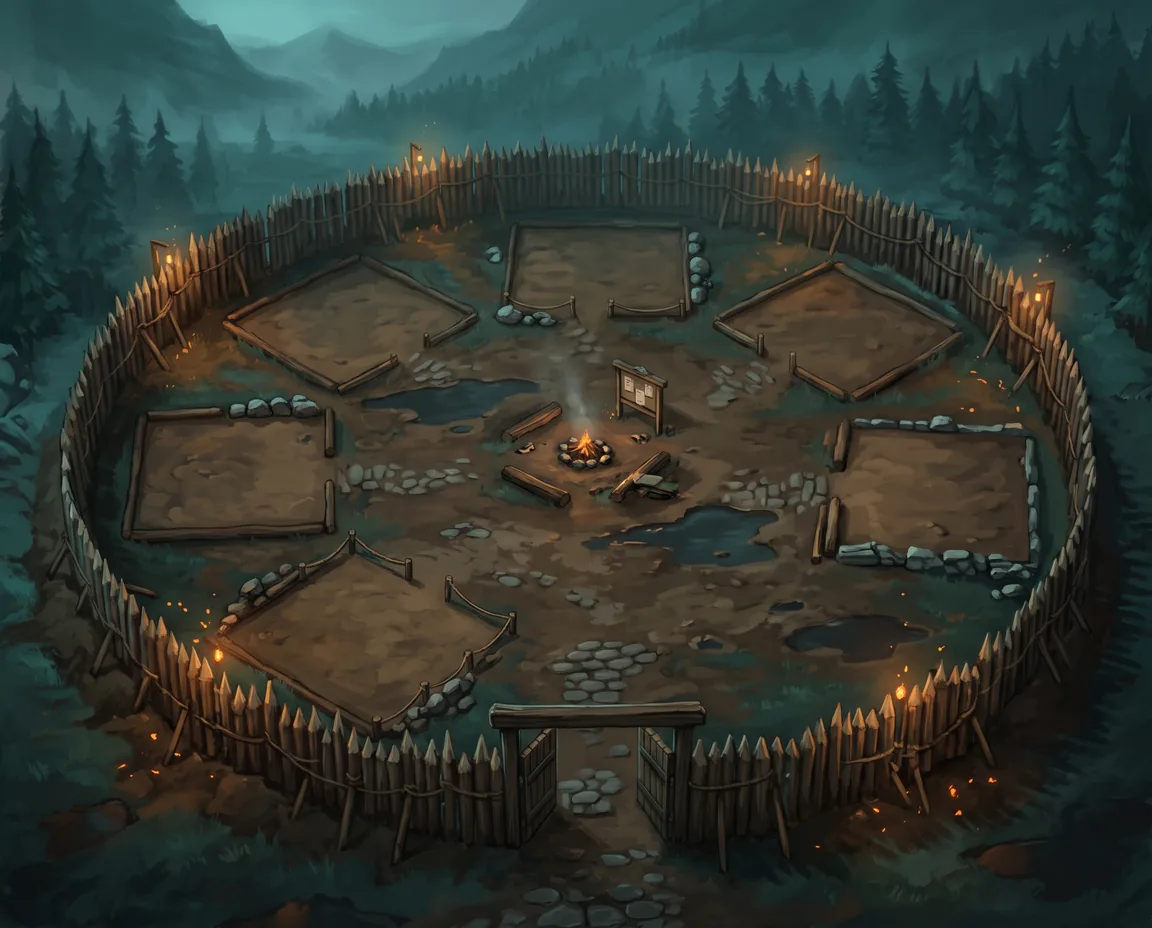
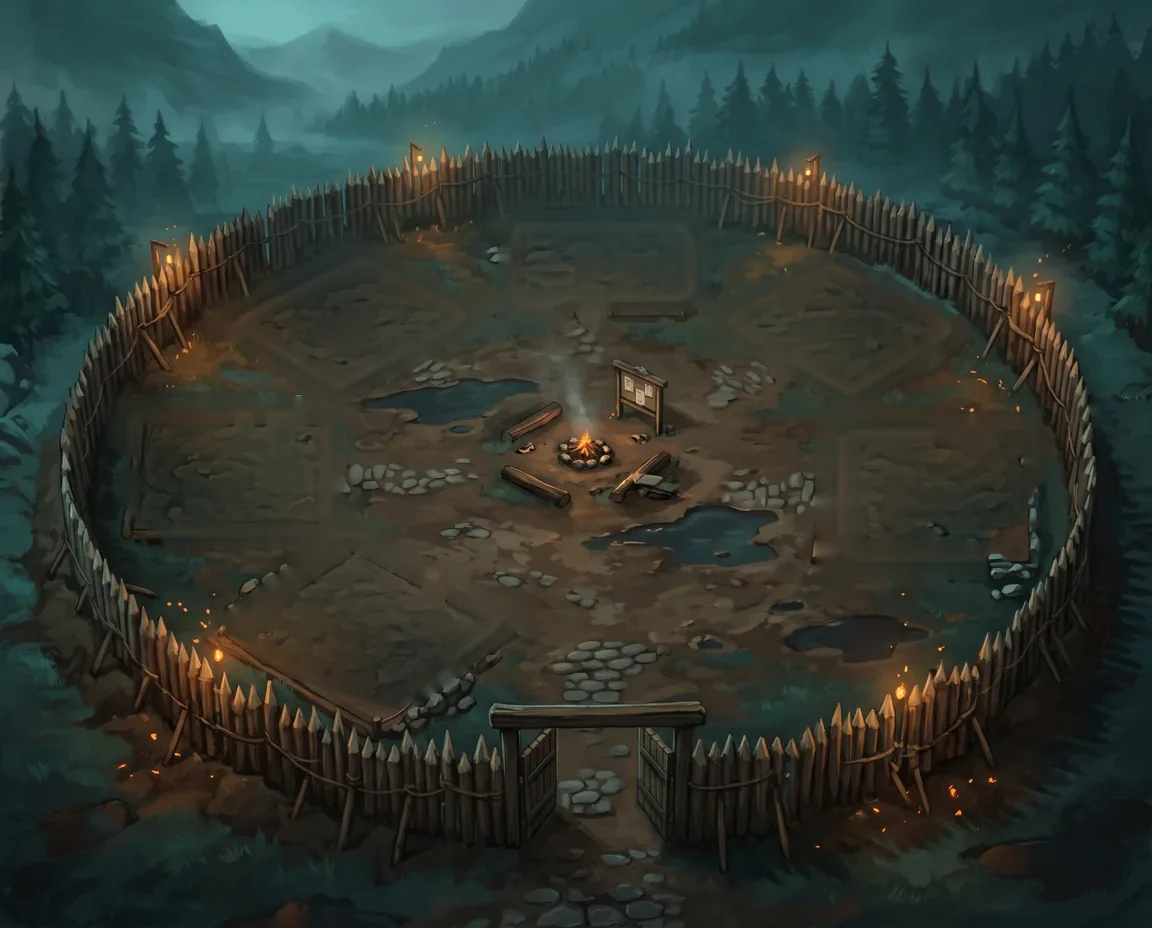
Sat aliniat, Topitorie/Depozit fără derulare, profil cu rucsac pe slot
Claude-Session: https://claude.ai/code/session_016RnVnM3nvrFB2teg2FRV2u

diff --git a/profil.js b/profil.js
@@ -7,11 +7,11 @@
    Se deschide cu prOpen(i), unde i e poziția în roster() (echipă, apoi rezervă, apoi străjeri).
    Se încarcă după echipa.js.
    ========================================================================== */
-const PR = { i: -1, bagFilter: 'all', bagQuery: '' };
+const PR = { i: -1, bagFilter: 'all', bagQuery: '', bagOpen: false };
 const prF = () => roster()[PR.i];
 const prPct = v => (v > 0 ? '+' : '−') + Math.abs(v) + '%';
 
-function prOpen(i) { if (!roster()[i]) return; PR.i = i; PR.bagFilter = 'all'; PR.bagQuery = ''; prDraw(); }
+function prOpen(i) { if (!roster()[i]) return; PR.i = i; PR.bagFilter = 'all'; PR.bagQuery = ''; PR.bagOpen = false; prDraw(); }
 function prClose() { PR.i = -1; document.getElementById('pr-m')?.remove(); document.removeEventListener('keydown', prKey); }
 function prKey(e) { if (e.key === 'Escape') prClose(); }
 /* acțiunile din profil lucrează pe luptătorul din profil, apoi redesenează fereastra */
@@ -83,24 +83,30 @@ function prStats(f) {
 }
 function prSlot(f, k) {
   const it = E(f)[k];
-  if (!it) return `<div class="pr-sl em" title="${SLN[k]}: gol">${UI(UISL[k])}<small>${SLN[k]}</small></div>`;
-  return `<div class="pr-sl q${it.lg ? 'l' : it.r}"${typeof itTipA === 'function' ? itTipA(it) : ` title="${tEsc(it.name)}"`}>${iic(it)}<button class="pr-un" onclick="prUn('${k}')" title="Scoate ${tEsc(it.name)}" aria-label="Scoate ${tEsc(it.name)}">✕</button></div>`;
+  const on = PR.bagOpen && PR.bagFilter === k ? ' on' : '', pick = `onclick="prPick('${k}')" role="button" tabindex="0" onkeydown="if(event.key==='Enter'||event.key===' '){event.preventDefault();prPick('${k}')}"`;
+  if (!it) return `<div class="pr-sl em${on}" ${pick} title="${SLN[k]}: gol · apasă ca să alegi" aria-label="${SLN[k]}: gol, alege un obiect">${UI(UISL[k])}<small>${SLN[k]}</small></div>`;
+  return `<div class="pr-sl q${it.lg ? 'l' : it.r}${on}" ${pick}${typeof itTipA === 'function' ? itTipA(it) : ` title="${tEsc(it.name)}"`}>${iic(it)}<button class="pr-un" onclick="event.stopPropagation();prUn('${k}')" title="Scoate ${tEsc(it.name)}" aria-label="Scoate ${tEsc(it.name)}">✕</button></div>`;
 }
 /* Filtre exclusiv de prezentare: indexul real din inventar rămâne neschimbat la equip(i). */
 const prBagMatches = it => {
   const k = PR.bagFilter;
   const category = k === 'all' || (k === 'w' && it.t === 'w') ||
     (k === 'armor' && ['a','h','b'].includes(it.t)) ||
-    (k === 'accessory' && ['j','r'].includes(it.t));
+    (k === 'accessory' && ['j','r'].includes(it.t)) ||
+    (['a','h','b','j','r'].includes(k) && it.t === k);
   const query = (PR.bagQuery || '').trim().toLocaleLowerCase('ro-RO');
   return category && (!query || String(it.name || '').toLocaleLowerCase('ro-RO').includes(query));
 };
 const prEscapeAttr = s => String(s).replace(/&/g,'&amp;').replace(/"/g,'&quot;').replace(/</g,'&lt;').replace(/>/g,'&gt;');
 function prBagCells(f) {
   const inv = S.inv || [];
-  const visible = inv.map((it,i) => ({it,i})).filter(({it}) => prBagMatches(it));
-  const cells = visible.map(({it,i}) => {
-    const cur = E(f)[it.t], ok = typeof wfOk !== 'function' || wfOk(f, it), up = ok && typeof bsc === 'function' && (!cur || bsc(it, f) > bsc(cur, f) * 1.02);
+  const visible = inv.map((it,i) => ({it,i})).filter(({it}) => prBagMatches(it)).map(o => {
+    const cur = E(f)[o.it.t], ok = typeof wfOk !== 'function' || wfOk(f, o.it), sc = typeof bsc === 'function' ? bsc(o.it, f) : 0;
+    return Object.assign(o, { cur, ok, sc, up: ok && typeof bsc === 'function' && (!cur || sc > bsc(cur, f) * 1.02) });
+  });
+  /* ordinea afișată: întâi îmbunătățirile, apoi ce se potrivește, cele mai bune primele (indexul real rămâne neschimbat) */
+  visible.sort((x, y) => (y.up - x.up) || (y.ok - x.ok) || (y.sc - x.sc));
+  const cells = visible.map(({it,i,cur,ok,up}) => {
     return `<button class="pr-it q${it.lg ? 'l' : it.r}${up ? ' up' : ''}${ok ? '' : ' no'}" onclick="prEq(${i})"${typeof itTipA === 'function' ? itTipA(it, cur) : ` title="${tEsc(it.name)}"`} aria-label="Echipează ${tEsc(it.name)}">${iic(it)}${up ? '<b class="pr-up">▲</b>' : ''}</button>`;
   }).join('');
   return {count:visible.length,html:cells || '<p class="pr-empty pr-bag-none">Niciun obiect găsit. Încearcă alt filtru.</p>'};
@@ -110,8 +116,9 @@ function prBag(f) {
   if (!inv.length) return '<div class="mute pr-empty">Rucsacul e gol.</div>';
   return `<div class="pr-grid" id="pr-bag-items" role="region" aria-label="Obiectele din rucsac">${prBagCells(f).html}</div>`;
 }
+const PR_SLOTS = [['all','Toate'],['w','Arme'],['a','Armuri'],['h','Coifuri'],['b','Cizme'],['j','Bijuterii'],['r','Relicve']];
 function prBagTools() {
-  const options = [['all','Toate'],['w','Arme'],['armor','Armuri'],['accessory','Accesorii']];
+  const options = PR_SLOTS;
   const buttons = options.map(([k,t]) => `<button type="button" data-pr-filter="${k}" class="${PR.bagFilter === k ? 'on' : ''}" aria-pressed="${PR.bagFilter === k}" onclick="prBagFilter('${k}')">${t}</button>`).join('');
   return `<div class="pr-bag-tools" aria-label="Filtre rucsac"><div class="pr-bag-tabs" role="group" aria-label="Tip obiect">${buttons}</div><input class="pr-bag-search" type="search" placeholder="Caută obiect…" aria-label="Caută în rucsac" value="${prEscapeAttr(PR.bagQuery)}" oninput="prBagSearch(this.value)"></div>`;
 }
@@ -129,7 +136,12 @@ function prBagRefresh() {
     btn.setAttribute('aria-pressed', String(on));
   });
 }
-function prBagFilter(value) { if (['all','w','armor','accessory'].includes(value)) { PR.bagFilter = value; prBagRefresh(); } }
+function prBagFilter(value) { if (['all','w','armor','accessory','a','h','b','j','r'].includes(value)) { PR.bagFilter = value; prBagRefresh(); document.querySelectorAll('#pr-m .pr-sl').forEach(el => el.classList.toggle('on', el.getAttribute('onclick') === `prPick('${value}')`)); const t = document.getElementById('pr-bag-t'); if (t) t.textContent = prBagTitle(); } }
+/* rucsacul e ascuns până alegi un slot (sau îl deschizi): fișa rămâne curată */
+const prBagTitle = () => { const o = PR_SLOTS.find(x => x[0] === PR.bagFilter); return o && PR.bagFilter !== 'all' ? o[1] : 'Tot rucsacul'; };
+function prPick(k) { if (PR.bagOpen && PR.bagFilter === k) { PR.bagOpen = false; } else { PR.bagOpen = true; PR.bagFilter = k; PR.bagQuery = ''; } prDraw(); }
+function prBagToggle(open) { PR.bagOpen = open; if (open && !PR.bagFilter) PR.bagFilter = 'all'; prDraw(); }
+function prUpCount(f) { return (S.inv || []).filter(it => { const cur = E(f)[it.t]; return (typeof wfOk !== 'function' || wfOk(f, it)) && typeof bsc === 'function' && (!cur || bsc(it, f) > bsc(cur, f) * 1.02); }).length; }
 function prBagSearch(value) { PR.bagQuery = String(value || ''); prBagRefresh(); }
 function prDraw() {
   const f = prF(); if (!f) return prClose();
@@ -153,15 +165,15 @@ function prDraw() {
   ${train}
   <div class="pr-ab"><b>${tEsc(cls.sp)}</b> <span>${tEsc(cls.d)}</span>${spec ? `<div><b>${tEsc(spec.n)}</b> <span>${tEsc(spec.r || '')}</span></div>` : ''}</div>
 </section>
-<section class="pr-r">
+<section class="pr-r${PR.bagOpen ? '' : ' closed'}">
   <div class="pr-doll">
     <div class="pr-col">${L.map(k => prSlot(f, k)).join('')}</div>
     <div class="pr-por">${src ? `<img src="${src}" alt="${tEsc(f.n)}" onerror="this.replaceWith(Object.assign(document.createElement('span'),{className:'pr-av'}))">` : `<span class="pr-av">${av(f, 180)}</span>`}${dead ? '<b class="pr-dead">☠ căzut</b>' : ''}</div>
     <div class="pr-col">${R.map(k => prSlot(f, k)).join('')}</div>
   </div>
-  <div class="pr-bh"><b>Rucsac</b><span class="pr-bag-count" id="pr-bag-count" aria-live="polite">${prBagCells(f).count} / ${(S.inv || []).length}</span><span class="mute">Atinge pentru echipare · ▲ îmbunătățire</span></div>
+  ${PR.bagOpen ? `<div class="pr-bh"><b>Rucsac</b><span class="pr-bag-sub" id="pr-bag-t">${prBagTitle()}</span><span class="pr-bag-count" id="pr-bag-count" aria-live="polite">${prBagCells(f).count} / ${(S.inv || []).length}</span><span class="mute">Atinge pentru echipare · ▲ îmbunătățire</span><button class="pr-bag-hide" onclick="prBagToggle(false)">Ascunde</button></div>
   ${prBagTools()}
-  ${prBag(f)}
+  ${prBag(f)}` : (u => `<div class="pr-bag-closed"><span class="mute">Apasă pe un slot ca să vezi doar ce se potrivește acolo, cele mai bune primele.</span><button onclick="prBagToggle(true)">🎒 Rucsac · ${(S.inv || []).length} obiecte${u ? ` · <b class="pr-upc">▲ ${u}</b>` : ''}</button></div>`)(prUpCount(f))}
 </section></div>`;
 }
 
@@ -287,6 +299,25 @@ const prBtn = i => `<button class="pr-open" onclick="prOpen(${i})">👤 Profil</
  .pr-bag-search{max-width:none;flex-basis:100%}
  .pr-beta .pr-grid{overflow:visible;max-height:none;grid-template-columns:repeat(auto-fill,minmax(48px,1fr))}
 }
+.pr-beta .pr-grid{grid-template-columns:repeat(auto-fill,58px);grid-auto-rows:58px;justify-content:start}
+.pr-beta .pr-it{width:58px;height:58px;aspect-ratio:auto}
+.pr-beta .pr-it .ico,.pr-beta .pr-it .uii{width:40px;height:40px}
+.pr-beta .pr-sl{cursor:pointer;transition:transform .12s,box-shadow .12s}
+.pr-beta .pr-sl:hover{transform:translateY(-1px);box-shadow:0 0 0 1px #d9bb74,0 0 14px #cda9514d}
+.pr-beta .pr-sl.on{box-shadow:0 0 0 2px #f0d27a,0 0 18px #f0d27a88}
+.pr-beta .pr-r.closed{grid-template-rows:minmax(0,1fr) auto}
+.pr-beta .pr-r.closed .pr-doll{height:100%}
+.pr-beta .pr-r.closed .pr-por{max-width:440px;max-height:min(440px,62dvh)}
+.pr-beta .pr-r.closed .pr-sl{width:70px;height:70px}
+.pr-beta .pr-r.closed .pr-sl .ico,.pr-beta .pr-r.closed .pr-sl .uii{width:50px;height:50px}
+.pr-beta .pr-r.closed .pr-doll{grid-template-columns:minmax(76px,1fr) minmax(240px,440px) minmax(76px,1fr)}
+.pr-bag-closed{display:flex;align-items:center;justify-content:space-between;gap:12px;margin-top:12px;padding:10px 12px;border:1px solid #68573577;border-radius:10px;background:#0b1417}
+.pr-bag-closed .mute{font-size:13px}
+.pr-bag-closed button{flex:none;min-height:0;padding:8px 14px;font:700 14px Cinzel,Georgia,serif}
+.pr-upc{color:#7fd88c}
+.pr-bag-sub{font:700 13px Cinzel,serif;color:#e8d6a6}
+.pr-bag-hide{margin-left:6px;min-height:0;padding:4px 10px;font-size:12px}
+@media(max-width:760px){.pr-bag-closed{flex-direction:column;align-items:stretch}.pr-beta .pr-grid{grid-template-columns:repeat(auto-fill,52px);grid-auto-rows:52px}.pr-beta .pr-it{width:52px;height:52px}.pr-beta .pr-r.closed .pr-sl{width:54px;height:54px}.pr-beta .pr-r.closed .pr-doll{grid-template-columns:58px minmax(0,1fr) 58px}}
 @keyframes prIn{from{opacity:0;transform:translateY(8px) scale(.98)}to{opacity:1;transform:none}}
 @media (prefers-reduced-motion:reduce){.pr-c{animation:none}}
 @media (max-width:760px){

diff --git a/sat-cladiri.js b/sat-cladiri.js
@@ -13,16 +13,20 @@
 const SAT2 = {
   ready: true,                      /* imaginile din imagini/sat2/ sunt publicate */
   base: 'imagini/sat2/',
-  /* parcelele: centrul bazei clădirii (x, y) și lățimea desenului, în pixeli 1152×928 */
-  /* parcelele din fundal: x = mijlocul, y = vârful din față al parcelei (baza desenului), w = lățimea desenului (px, 1152×928) */
+  fondV: 2,                         /* fundalurile fără parcele pictate */
+  /* parcelele: centrul locului de construcție (cx, cy) și lățimea desenului (w), în pixeli 1152×928.
+     Fundalurile nu mai au parcele pictate; fiecare clădire își aduce propriul teren izometric, așa că unghiul e mereu corect.
+     Pozițiile țin clădirile în interiorul zidului (antrenamentul nu mai calcă peste palisadă). */
   plots: {
-    a: { file: 'topitorie',   x: 352, y: 394, w: 272 },   /* sus-stânga */
-    d: { file: 'depozit',     x: 597, y: 324, w: 232 },   /* sus-centru */
-    p: { file: 'piata',       x: 840, y: 400, w: 272 },   /* sus-dreapta */
-    i: { file: 'infirmerie',  x: 228, y: 548, w: 252 },   /* mijloc-stânga */
-    h: { file: 'han',         x: 930, y: 566, w: 262 },   /* mijloc-dreapta */
-    t: { file: 'antrenament', x: 368, y: 730, w: 292 }    /* jos-stânga */
+    a: { file: 'topitorie',   cx: 350, cy: 322, w: 260 },   /* sus-stânga */
+    d: { file: 'depozit',     cx: 600, cy: 262, w: 230 },   /* sus-centru */
+    p: { file: 'piata',       cx: 838, cy: 328, w: 262 },   /* sus-dreapta */
+    i: { file: 'infirmerie',  cx: 248, cy: 470, w: 230 },   /* mijloc-stânga */
+    h: { file: 'han',         cx: 912, cy: 488, w: 224 },   /* mijloc-dreapta */
+    t: { file: 'antrenament', cx: 395, cy: 610, w: 250 }    /* jos-stânga */
   },
+  /* terenul izometric din desen: de la centrul lui până la vârful din față ≈ 0,30·w */
+  tileK: 0.30,
   /* câte aspecte există deja ca imagine pentru fiecare clădire (lipsă → cel mai mare disponibil; 0 → parcelă goală) */
   have: { topitorie: 5, depozit: 5, piata: 1, infirmerie: 5, han: 5, antrenament: 1 },
   /* clădirile fără niveluri: un singur aspect */
@@ -35,6 +39,7 @@ const SAT2 = {
   board: { x: 638, y: 438 },
   W: 1152, H: 928
 };
+const satBaseY = c => c.y != null ? c.y : c.cy + SAT2.tileK * c.w;
 const satArtTier = (k) => {
   if (SAT2.fixed[k]) return SAT2.fixed[k];
   const lv = typeof satLvl === 'function' ? satLvl(k) : 0;
@@ -43,7 +48,9 @@ const satArtTier = (k) => {
 };
 const satArtSrc = (k, tier) => { const c = SAT2.plots[k]; if (!c || tier < 1) return null; const t = Math.min(tier, SAT2.have[c.file] || 0); return t > 0 ? SAT2.base + c.file + '-' + t + '.webp' : null; };
 /* zona clicabilă: un dreptunghi în jurul desenului (lățime w, înălțime ~0,85·w deasupra bazei) */
-function satArtZone(c) { const w = c.w, h = Math.round(w * 0.86), x0 = c.x - w / 2, y0 = c.y - h; return [[x0, y0, x0 + w, y0, x0 + w, c.y, x0, c.y], [c.x, Math.max(14, y0 + 10)]]; }
+function satArtZone(c) { const x = c.cx != null ? c.cx : c.x, by = satBaseY(c), w = c.w, h = Math.round(w * 0.86), x0 = x - w / 2, y0 = by - h; return [[x0, y0, x0 + w, y0, x0 + w, by, x0, by], [x, Math.max(14, y0 + 10)]]; }
+/* loc gol (clădire neconstruită): un romb punctat pe teren */
+function satPlotSvg(c) { const hw = c.w / 2 * 0.92, hh = c.w * SAT2.tileK * 0.92; return `<polygon class="vh-plot" points="${c.cx - hw},${c.cy} ${c.cx},${c.cy - hh} ${c.cx + hw},${c.cy} ${c.cx},${c.cy + hh}"/>`; }
 
 /* ultimul aspect văzut pentru fiecare clădire → animația „a crescut” doar o dată */
 function satArtSeen(k, tier) {
@@ -58,14 +65,14 @@ function satFlagSvg(c) {
   return `<svg class="vh-flag" viewBox="0 0 40 90" style="left:${x.toFixed(2)}%;top:${y.toFixed(2)}%" aria-hidden="true"><path d="M6 88V4" stroke="#3a2614" stroke-width="3"/><circle cx="6" cy="4" r="3" fill="#c9a24b"/><path class="vh-flag-c" d="M7 8 C20 4 26 14 38 10 L38 34 C26 38 20 28 7 32 Z" fill="${fill}" stroke="#1a0f08" stroke-width="1"/></svg>`;
 }
 function satSprites() {
-  let h = '';
+  let h = '', plots = '';
   for (const k in SAT2.plots) {
     if (typeof satVisible === 'function' && !satVisible(k)) continue;
     const c = SAT2.plots[k], tier = satArtTier(k), src = satArtSrc(k, tier);
-    if (!src) continue;                                   /* nivel 0: parcela rămâne goală */
-    const grew = !SAT2.fixed[k] && satArtSeen(k, tier);
-    const left = (c.x - c.w / 2) / SAT2.W * 100, width = c.w / SAT2.W * 100, bottom = (1 - c.y / SAT2.H) * 100;
-    h += `<img class="vh-b${grew ? ' vh-grew' : ''}" data-b="${k}" src="${src}" alt="" loading="eager" decoding="async" style="left:${left.toFixed(2)}%;width:${width.toFixed(2)}%;bottom:${bottom.toFixed(2)}%;z-index:${Math.round(c.y)}">`;
+    if (!src) { plots += satPlotSvg(c); continue; }       /* nivel 0: rămâne locul gol, marcat */
+    const grew = !SAT2.fixed[k] && satArtSeen(k, tier), by = satBaseY(c);
+    const left = (c.cx - c.w / 2) / SAT2.W * 100, width = c.w / SAT2.W * 100, bottom = (1 - by / SAT2.H) * 100;
+    h += `<img class="vh-b${grew ? ' vh-grew' : ''}" data-b="${k}" src="${src}" alt="" loading="eager" decoding="async" style="left:${left.toFixed(2)}%;width:${width.toFixed(2)}%;bottom:${bottom.toFixed(2)}%;z-index:${Math.round(by)}">`;
   }
   for (const k in SAT2.props) {
     if (typeof satVisible === 'function' && !satVisible(k)) continue;
@@ -74,7 +81,8 @@ function satSprites() {
     const left = (c.x - c.w / 2) / SAT2.W * 100, width = c.w / SAT2.W * 100, bottom = (1 - c.y / SAT2.H) * 100;
     h += `<img class="vh-b vh-prop" data-b="${k}" src="${SAT2.base + c.file}.webp" alt="" style="left:${left.toFixed(2)}%;width:${width.toFixed(2)}%;bottom:${bottom.toFixed(2)}%;z-index:${Math.round(c.y)}">`;
   }
-  return `<div class="vh-sprites" aria-hidden="true">${h}</div>`;
+  const pl = plots ? `<svg class="vh-plots" viewBox="0 0 ${SAT2.W} ${SAT2.H}" aria-hidden="true">${plots}</svg>` : '';
+  return `<div class="vh-sprites" aria-hidden="true">${pl}${h}</div>`;
 }
 
 (function () {
@@ -83,10 +91,16 @@ function satSprites() {
   window.vHub = function () {
     if (!SAT2.ready) return base();
     /* zonele clicabile urmăresc desenele noi */
-    for (const k in SAT2.plots) if (k in SAT_Z) SAT_Z[k] = satArtZone(SAT2.plots[k]);
+    for (const k in SAT2.plots) if (k in SAT_Z) {
+      const c = SAT2.plots[k];
+      if (satArtSrc(k, satArtTier(k))) { SAT_Z[k] = satArtZone(c); continue; }
+      /* loc gol: zona e rombul de pe teren, eticheta stă pe el */
+      const hw = c.w / 2, hh = c.w * SAT2.tileK;
+      SAT_Z[k] = [[c.cx - hw, c.cy, c.cx, c.cy - hh, c.cx + hw, c.cy, c.cx, c.cy + hh], [c.cx, c.cy - 14]];
+    }
     for (const k in SAT2.props) { const c = SAT2.props[k]; if (k in SAT_Z) SAT_Z[k] = satArtZone({ x: c.x, y: c.y, w: Math.max(90, c.w) }); }
     if ('x' in SAT_Z) SAT_Z.x = satArtZone({ x: SAT2.board.x, y: SAT2.board.y, w: 110 });
-    const n = typeof satImgN === 'function' ? satImgN() : 1, fond = SAT2.base + 'fond-' + n + '.webp';
+    const n = typeof satImgN === 'function' ? satImgN() : 1, fond = SAT2.base + 'fond-' + n + '.webp?v=' + SAT2.fondV;
     let html = base();
     html = html.replace(/imagini\/sat\/sat-\d\.jpg/g, fond).replace('<svg viewBox="0 0 1152 928"', satSprites() + '<svg viewBox="0 0 1152 928"');
     return html;
@@ -102,6 +116,8 @@ function satSprites() {
 .vh-map:has(.vh-z.on) .vh-b{filter:drop-shadow(0 10px 8px #0008) brightness(.88)}
 ${['a','d','p','i','h','t','l'].map(k => `.vh-map:has(.vh-z.on[data-z="${k}"]) .vh-b[data-b="${k}"]`).join(',')}{filter:drop-shadow(0 0 14px #f0d27aaa) brightness(1.12)!important}
 .vh-map .vh-sprites svg.vh-flag{position:absolute;inset:auto;right:auto;bottom:auto;width:3.2%!important;height:auto!important;pointer-events:none;transform:translate(-20%,-96%);z-index:500;filter:drop-shadow(0 6px 4px #0008)}
+.vh-map .vh-sprites svg.vh-plots{position:absolute;inset:0;width:100%!important;height:100%!important;z-index:0;pointer-events:none}
+.vh-plot{fill:#f0d27a0d;stroke:#f0d27a66;stroke-width:2;stroke-dasharray:8 7}
 .vh-flag-c{transform-origin:7px 20px;animation:vhFlag 2.8s ease-in-out infinite alternate}
 @keyframes vhFlag{from{transform:skewY(-3deg) scaleX(.96)}to{transform:skewY(3deg) scaleX(1.03)}}
 .vh-grew{animation:vhGrow 1.4s cubic-bezier(.2,1.4,.4,1) both}

diff --git a/index.html b/index.html
@@ -210,7 +210,7 @@ main{padding:8px 24px;max-width:940px}
 <script src="tron.js?v=2026.11.09-4"></script>
 <script src="lume-art.js?v=2026.11.04-4"></script>
 <script src="sat.js?v=2026.11.09-1"></script>
-<script src="sat-cladiri.js?v=2026.11.09-3"></script>
+<script src="sat-cladiri.js?v=2026.11.09-4"></script>
 <script src="lupta-vs.js?v=2026.11.09-1"></script>
 <script src="fx.js?v=2026.11.09-3"></script>
 <script src="fx-plus.js?v=2026.11.09-1"></script>
@@ -240,7 +240,7 @@ main{padding:8px 24px;max-width:940px}
 <script src="legendare.js?v=2026.11.09-1"></script>
 <script src="endgame-ui.js?v=2026.11.09-1"></script>
 <script src="fierarie-filtre.js?v=2026.11.09-1"></script>
-<script src="profil.js?v=2026.11.09-1"></script>
+<script src="profil.js?v=2026.11.09-2"></script>
 <script src="lume-quick.js?v=2026.11.09-1"></script>
 <script src="world-mail.js?v=2026.11.09-2"></script>
 <script src="world-friends.js?v=2026.11.09-1"></script>
@@ -1066,6 +1066,31 @@ body.st-adventure .hs .hm{cursor:default}
  #v:has(> .fk-tabs)>section:nth-of-type(2){grid-column:1;grid-row:span 2}
  #v:has(> .fk-tabs)>section:nth-of-type(1),#v:has(> .fk-tabs)>section.mr-bl{grid-column:2}
  #v:has(> .fk-tabs)>section:nth-of-type(1) .slots,#v:has(> .fk-tabs)>section:nth-of-type(1)>div:not(.mute){grid-template-columns:repeat(2,minmax(0,1fr))}
+}
+/* Clădirile satului pe ecran mare (1080p): totul încape fără derulare.
+   Pagina se lățește, conținutul clădirii stă în stânga, iar panoul „Clădirea: …” (și ce urmează) într-o coloană în dreapta. */
+@media (min-width:1400px) and (min-height:700px){
+ main#v:has(> .vb){max-width:min(1500px,100%)}
+ #v:has(> .vb):has(> section.mr-bl):not(:has(> .fk-tabs)){display:grid;grid-template-columns:minmax(0,1fr) 360px;grid-auto-flow:row dense;gap:0 14px;align-items:start}
+ #v:has(> .vb):has(> section.mr-bl):not(:has(> .fk-tabs))>*{grid-column:1/-1}
+ #v:has(> .vb):has(> section.mr-bl):not(:has(> .fk-tabs))>section:not(.mr-bl):first-of-type{grid-column:1;grid-row:span 4}
+ #v:has(> .vb):has(> section.mr-bl):not(:has(> .fk-tabs))>section.mr-bl,
+ #v:has(> .vb):has(> section.mr-bl):not(:has(> .fk-tabs))>section.mr-bl~section{grid-column:2}
+ #v>section.mr-bl~section, #v>section.mr-bl{margin-top:0}
+ /* Topitoria: formular | sloturi | clădirea */
+ #v:has(> .fk-tabs){grid-template-columns:minmax(0,1.1fr) minmax(0,1fr) 340px}
+ #v:has(> .fk-tabs)>section.mr-bl{grid-column:3;grid-row:span 2}
+ #v:has(> .fk-tabs)>section:nth-of-type(2) .row{padding-block:6px}
+ /* Depozitul: carduri compacte, câte patru pe rând */
+ .dz-g{grid-template-columns:repeat(auto-fill,minmax(240px,1fr));gap:6px 10px}
+ .dz-m{padding:5px 10px 4px}
+ .dz-m .row{font-size:15px;line-height:1.25}
+ .dz-m .row .mute{font-size:12.5px}
+ .dz-m .bar{margin:4px 0 2px!important;height:5px}
+ .dz-g.dz-q{grid-template-columns:repeat(3,minmax(0,1fr))}
+ .dz-q .dz-m .row>span:last-child{white-space:normal;font-size:13.5px}
+ #v:has(> .vb)>section{padding-block:14px}
+ #v:has(> .vb) h2{margin-bottom:8px}
 }
 </style>
 <!-- săgeata ghidului e în ghid.js -->

diff --git a/dev/test-beta-profile-refresh.js b/dev/test-beta-profile-refresh.js
@@ -6,7 +6,7 @@ const fs=require('node:fs'),path=require('node:path');
 const source=fs.readFileSync(path.join(__dirname,'..','profil.js'),'utf8');
 const html=fs.readFileSync(path.join(__dirname,'..','index.html'),'utf8');
 new Function(source);
-assert(html.includes('profil.js?v=2026.11.09-1'),'Browser gets the refreshed profile');
+assert(html.includes('profil.js?v=2026.11.09-2'),'Browser gets the refreshed profile');
 assert(source.includes("egTitleGet()?' eg-cosmetic':''} pr-beta\">"),'Redesigned profile class applied');
 for(const marker of [
   '.pr-c.pr-beta{grid-template-columns:',
@@ -77,6 +77,12 @@ api.prBagSearch('obiect inexistent');
 assert(box.innerHTML.includes('Niciun obiect găsit'),'Empty filter shows useful empty state');
 api.prBagSearch('');
 assert.equal(api.prBagCells(fighter).count,6,'Clearing search restores inventory');
+api.prBagFilter('h');
+assert.equal(api.prBagCells(fighter).count,1,'Slot filter shows only that slot (helm)');
+assert(api.prBagCells(fighter).html.includes('prEq(4)'),'Slot filter keeps the real inventory index');
+api.prBagFilter('all');
+assert(source.includes("bagOpen: false")&&source.includes('function prPick(k)')&&source.includes('pr-bag-closed'),'Bag is hidden until a slot is picked or the bag is opened');
+assert(source.includes("event.stopPropagation();prUn("),'Unequip button does not also open the slot picker');
 api.prBagFilter('invalid');
 assert.equal(api.prBagCells(fighter).count,6,'Unknown filter is ignored');
 state.bagQuery='"><img src=x onerror=alert(1)>';
